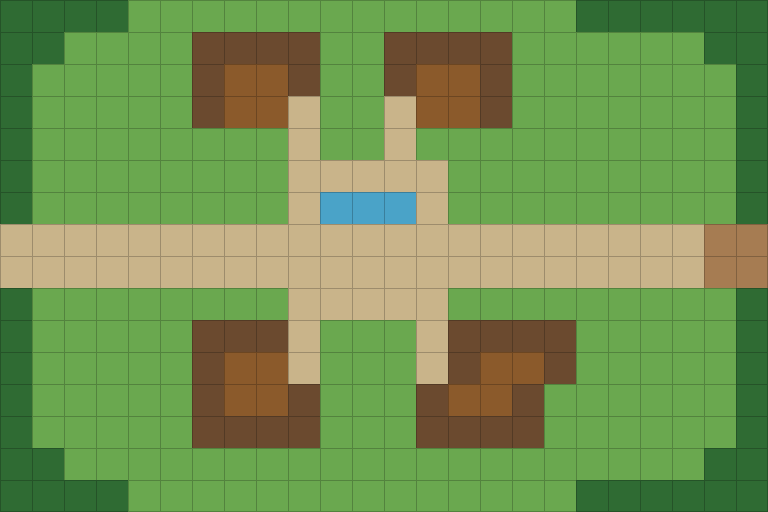
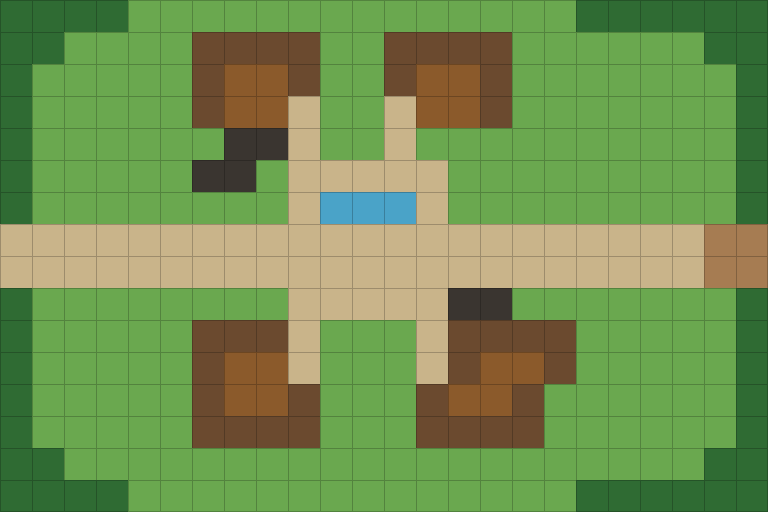
Align low courtyard scenery with navigation geometry

Changed region(s): [[0.25, 0.25, 0.375, 0.375], [0.5625, 0.5625, 0.6875, 0.625]]

diff --git a/src/content/scenes/baDan.test.ts b/src/content/scenes/baDan.test.ts
@@ -1,6 +1,23 @@
 import { expect, it } from 'vitest';
 import { BA_DAN_VILLAGE } from '../maps/village';
-import { BA_DAN_POND } from './baDan';
+import { BA_DAN_POND, BA_DAN_COURTYARD_FOOTPRINTS } from './baDan';
+import { buildGrid, reachable, posKey, tileAt } from '../../core/rules/grid';
+
+it('keeps painted low boundaries solid while preserving every village destination', () => {
+  const map = BA_DAN_VILLAGE;
+  const grid = buildGrid(map);
+  for (const p of BA_DAN_COURTYARD_FOOTPRINTS) {
+    expect(tileAt(grid, p)).toMatchObject({ blocked: true, blocksSight: false });
+    expect(
+      map.scene?.scenery.some((s) => s.footprint.some((f) => f.x === p.x && f.y === p.y)),
+    ).toBe(true);
+  }
+  const start = map.partySpawns[0];
+  if (!start) throw new Error('Village has no spawn');
+  const paths = reachable({ grid, blocked: new Set(), surfaces: new Map(), size: 1 }, start, 1000);
+  for (const p of [...map.npcs.map((npc) => npc.pos), { x: 9, y: 4 }, { x: 23, y: 7 }])
+    expect(paths.has(posKey(p)), `Unreachable village destination ${posKey(p)}`).toBe(true);
+});
 
 it('registers the painted pond to every actual permanent-water cell', () => {
   const painted: string[] = [];

diff --git a/src/content/maps/village.ts b/src/content/maps/village.ts
@@ -11,7 +11,7 @@
 
 import type { MapDef } from '../../core/types';
 import { LEGEND } from './legend';
-import { BA_DAN_SCENE } from '../scenes/baDan';
+import { BA_DAN_SCENE, BA_DAN_COURTYARD_FOOTPRINTS } from '../scenes/baDan';
 
 export const BA_DAN_VILLAGE: MapDef = {
   id: 'ba_dan_village',
@@ -23,7 +23,7 @@ export const BA_DAN_VILLAGE: MapDef = {
   width: 24,
   height: 16,
   ambience: 'village',
-  legend: LEGEND,
+  legend: { ...LEGEND, l: { terrain: 'stone', blocked: true, blocksSight: false } },
   rows: [
     'TTTT,,,,,,,,,,,,,,TTTTTT',
     'TT,,,,BBBB,,BBBB,,,,,,TT',
@@ -41,7 +41,13 @@ export const BA_DAN_VILLAGE: MapDef = {
     'T,,,,,BBBB,,,BBBB,,,,,,T',
     'TT,,,,,,,,,,,,,,,,,,,,TT',
     'TTTT,,,,,,,,,,,,,,TTTTTT',
-  ],
+  ].map((row, y) =>
+    [...row]
+      .map((tile, x) =>
+        BA_DAN_COURTYARD_FOOTPRINTS.some((p) => p.x === x && p.y === y) ? 'l' : tile,
+      )
+      .join(''),
+  ),
   partySpawns: [{ x: 3, y: 7 }],
   exit: { pos: { x: 23, y: 7 }, label: 'The east road, toward the quarry' },
   npcs: [

diff --git a/docs/art/prompts/maps/ba_dan_village.md b/docs/art/prompts/maps/ba_dan_village.md
@@ -8,7 +8,7 @@
 
 **Layout** `ba_dan_village-layout.png` beside this file: the tile grid as flat colour blocks at 32 px a tile, with the grid drawn. Hand it to the generator as the composition reference (image-to-image or a structure control) at a strength that keeps every edge where it is; upscale it to the delivery size first so the generator does not invent a border.
 
-**Palette** hue anchors from the game's own ground (`src/render/palettes.ts`): grass `#41552f`, wood `#6b4f33`, road `#5b5044`, dirt `#4d3f2f`, still water `#3e8fb0`. The painting replaces those tones outright, so lighter and more saturated is fine; stay in the same families so the effects and the parchment HUD still read over it.
+**Palette** hue anchors from the game's own ground (`src/render/palettes.ts`): grass `#41552f`, wood `#6b4f33`, road `#5b5044`, stone `#565452`, dirt `#4d3f2f`, still water `#3e8fb0`. The painting replaces those tones outright, so lighter and more saturated is fine; stay in the same families so the effects and the parchment HUD still read over it.
 
 ## Where
 
@@ -22,8 +22,9 @@ Ba Dan, the small village the party sets out from: a clearing in the woods.
 - Still water (3 tiles): a 3×1 block at columns 10–12, row 6 (the centre).
 - Trees (48 tiles): 13 tiles (top right), row 0: columns 18–23; row 1: columns 22–23; rows 2–6: column 23; 13 tiles (bottom right), rows 9–13: column 23; row 14: columns 22–23; row 15: columns 18–23; 11 tiles (top left), row 0: columns 0–3; row 1: columns 0–1; rows 2–6: column 0; 11 tiles (bottom left), rows 9–13: column 0; row 14: columns 0–1; row 15: columns 0–3.
 - Timber walls (36 tiles): 10 tiles (bottom centre), row 10: columns 6–8; row 11: column 6; row 12: columns 6 and 9; row 13: columns 6–9; 7 tiles (top centre), row 1: columns 6–9; row 2: columns 6 and 9; row 3: column 6; 7 tiles (top centre), row 1: columns 12–15; row 2: columns 12 and 15; row 3: column 15; 6 tiles (bottom centre), row 10: columns 14–17; row 11: columns 14 and 17; 6 tiles (bottom centre), row 12: columns 13 and 16; row 13: columns 13–16.
+- Stone walls (6 tiles): 4 tiles (top left), row 4: columns 7–8; row 5: columns 6–7; a 2×1 block at columns 14–15, row 9 (the centre).
 - Plank floors (16 tiles): a 2×2 block at columns 7–8, rows 2–3 (top centre); a 2×2 block at columns 13–14, rows 2–3 (top centre); a 2×2 block at columns 7–8, rows 11–12 (bottom centre); 4 tiles (bottom centre), row 11: columns 15–16; row 12: columns 14–15.
-- Open ground everywhere else: grass (213 tiles), bare earth (4 tiles).
+- Open ground everywhere else: grass (207 tiles), bare earth (4 tiles).
 - The party enters from the left, standing at (3, 7); enemies come from the right. The exit is at (23, 7). Paint nothing there that would read as an object to walk round.
 
 The rows as the rules read them:
@@ -33,12 +34,12 @@ TTTT,,,,,,,,,,,,,,TTTTTT
 TT,,,,BBBB,,BBBB,,,,,,TT
 T,,,,,BwwB,,BwwB,,,,,,,T
 T,,,,,Bww=,,=wwB,,,,,,,T
-T,,,,,,,,=,,=,,,,,,,,,,T
-T,,,,,,,,=====,,,,,,,,,T
+T,,,,,,ll=,,=,,,,,,,,,,T
+T,,,,,ll,=====,,,,,,,,,T
 T,,,,,,,,=~~~=,,,,,,,,,T
 ======================..
 ======================..
-T,,,,,,,,=====,,,,,,,,,T
+T,,,,,,,,=====ll,,,,,,,T
 T,,,,,BBB=,,,=BBBB,,,,,T
 T,,,,,Bww=,,,=BwwB,,,,,T
 T,,,,,BwwB,,,BwwB,,,,,,T
@@ -47,7 +48,7 @@ TT,,,,,,,,,,,,,,,,,,,,TT
 TTTT,,,,,,,,,,,,,,TTTTTT
 ```
 
-Legend: `T` trees; `,` grass; `B` timber walls; `w` plank floors; `=` road; `~` still water; `.` bare earth.
+Legend: `T` trees; `,` grass; `B` timber walls; `w` plank floors; `=` road; `l` stone walls; `~` still water; `.` bare earth.
 
 ## Prompt
 
